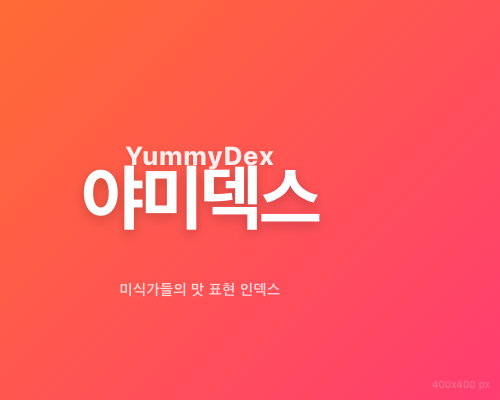
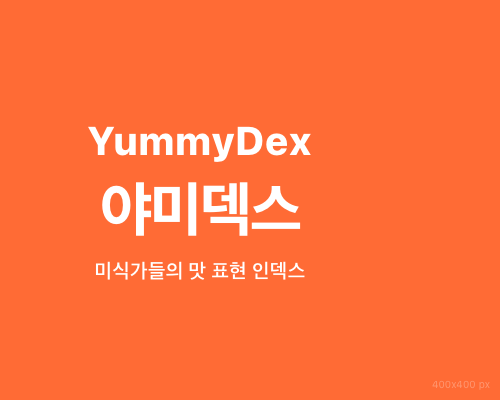
fix: 썸네일 스타일 수정 (글꼴 크기, 간격, 주황색 배경)

diff --git a/docs/thumbnail/capture.html b/docs/thumbnail/capture.html
@@ -15,59 +15,46 @@
             flex-direction: column;
             align-items: center;
             justify-content: center;
-            background: linear-gradient(135deg, #ff6b35, #ff3d71);
+            background-color: #ff6b35; /* 단색 주황색 배경 */
             font-family: -apple-system, BlinkMacSystemFont, "Segoe UI", Roboto, "Noto Sans KR", sans-serif;
             overflow: hidden;
-            position: relative;
-            color: #fff;
-            /* 캡처 시 여백 방지 */
+            color: #fff; /* 흰색 글자 */
             -webkit-font-smoothing: antialiased;
             -moz-osx-font-smoothing: grayscale;
         }
 
+        .content-container {
+            display: flex;
+            flex-direction: column;
+            align-items: center;
+            gap: 10px; /* 줄간격 10픽셀 */
+        }
+
         .english {
-            position: absolute;
-            top: 35%;
-            font-size: 26px;
+            font-size: 40px; /* 영어 40픽셀 */
             font-weight: 800;
-            opacity: 0.9;
             letter-spacing: 1px;
-            text-shadow: 0 2px 4px rgba(0,0,0,0.1);
             animation: fadeIn 0.8s ease-out;
         }
 
         .korean {
-            position: absolute;
-            top: 50%;
-            left: 50%;
-            transform: translate(-50%, -50%);
-            font-size: 72px;
+            font-size: 60px; /* 한글 60픽셀 */
             font-weight: 900;
-            letter-spacing: -3px;
-            white-space: nowrap;
-            text-shadow: 0 4px 12px rgba(0,0,0,0.2);
-            animation: popIn 0.6s cubic-bezier(0.17, 0.67, 0.83, 0.67);
+            letter-spacing: -2px;
+            animation: fadeIn 0.8s ease-out 0.2s both;
         }
 
         .tagline {
-            position: absolute;
-            bottom: 25%;
-            font-size: 15px;
+            font-size: 20px; /* 하단 설명 20픽셀 */
             font-weight: 600;
-            opacity: 0.8;
+            opacity: 0.9;
             letter-spacing: 0.5px;
-            white-space: nowrap;
-            animation: fadeIn 1s ease-out;
+            animation: fadeIn 1s ease-out 0.4s both;
         }
 
         @keyframes fadeIn {
             from { opacity: 0; transform: translateY(10px); }
-            to { opacity: 0.9; transform: translateY(0); }
-        }
-
-        @keyframes popIn {
-            from { opacity: 0; transform: translate(-50%, -50%) scale(0.8); }
-            to { opacity: 1; transform: translate(-50%, -50%) scale(1); }
+            to { opacity: 1; transform: translateY(0); }
         }
 
         /* 캡처 가이드 (브라우저 확인용) */
@@ -82,9 +69,11 @@
     </style>
 </head>
 <body>
-    <div class="english">YummyDex</div>
-    <div class="korean">야미덱스</div>
-    <div class="tagline">미식가들의 맛 표현 인덱스</div>
+    <div class="content-container">
+        <div class="english">YummyDex</div>
+        <div class="korean">야미덱스</div>
+        <div class="tagline">미식가들의 맛 표현 인덱스</div>
+    </div>
     <div class="capture-guide">400x400 px</div>
 </body>
 </html>
